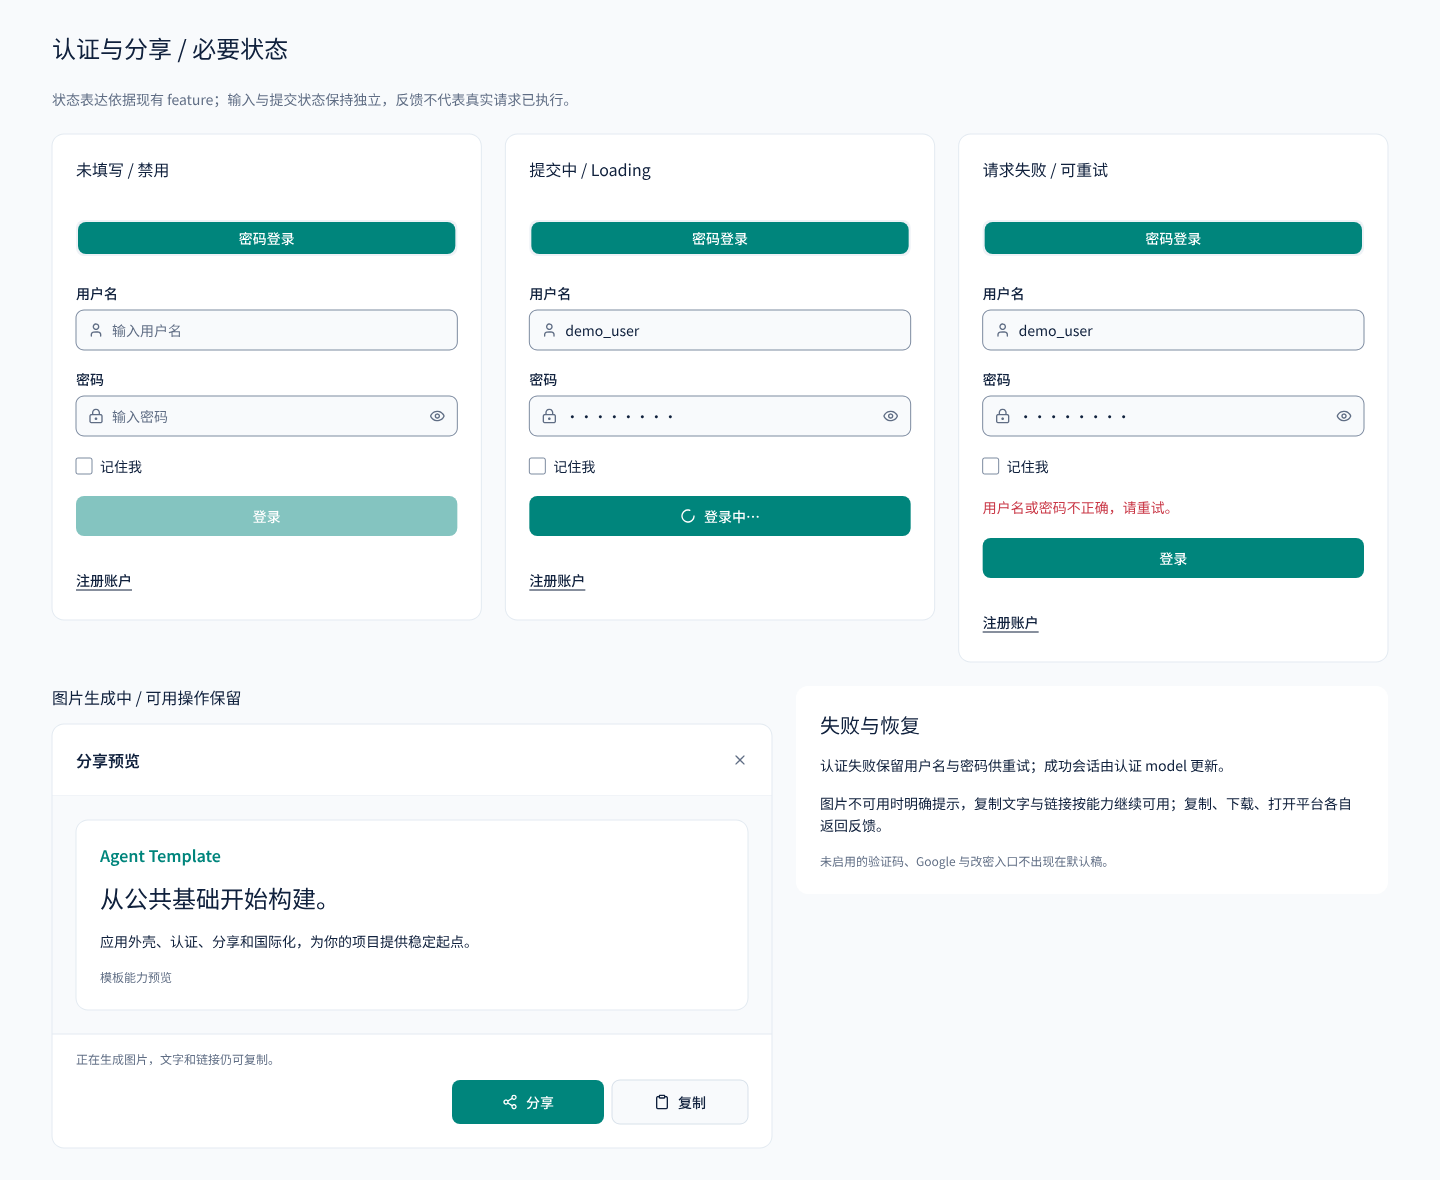
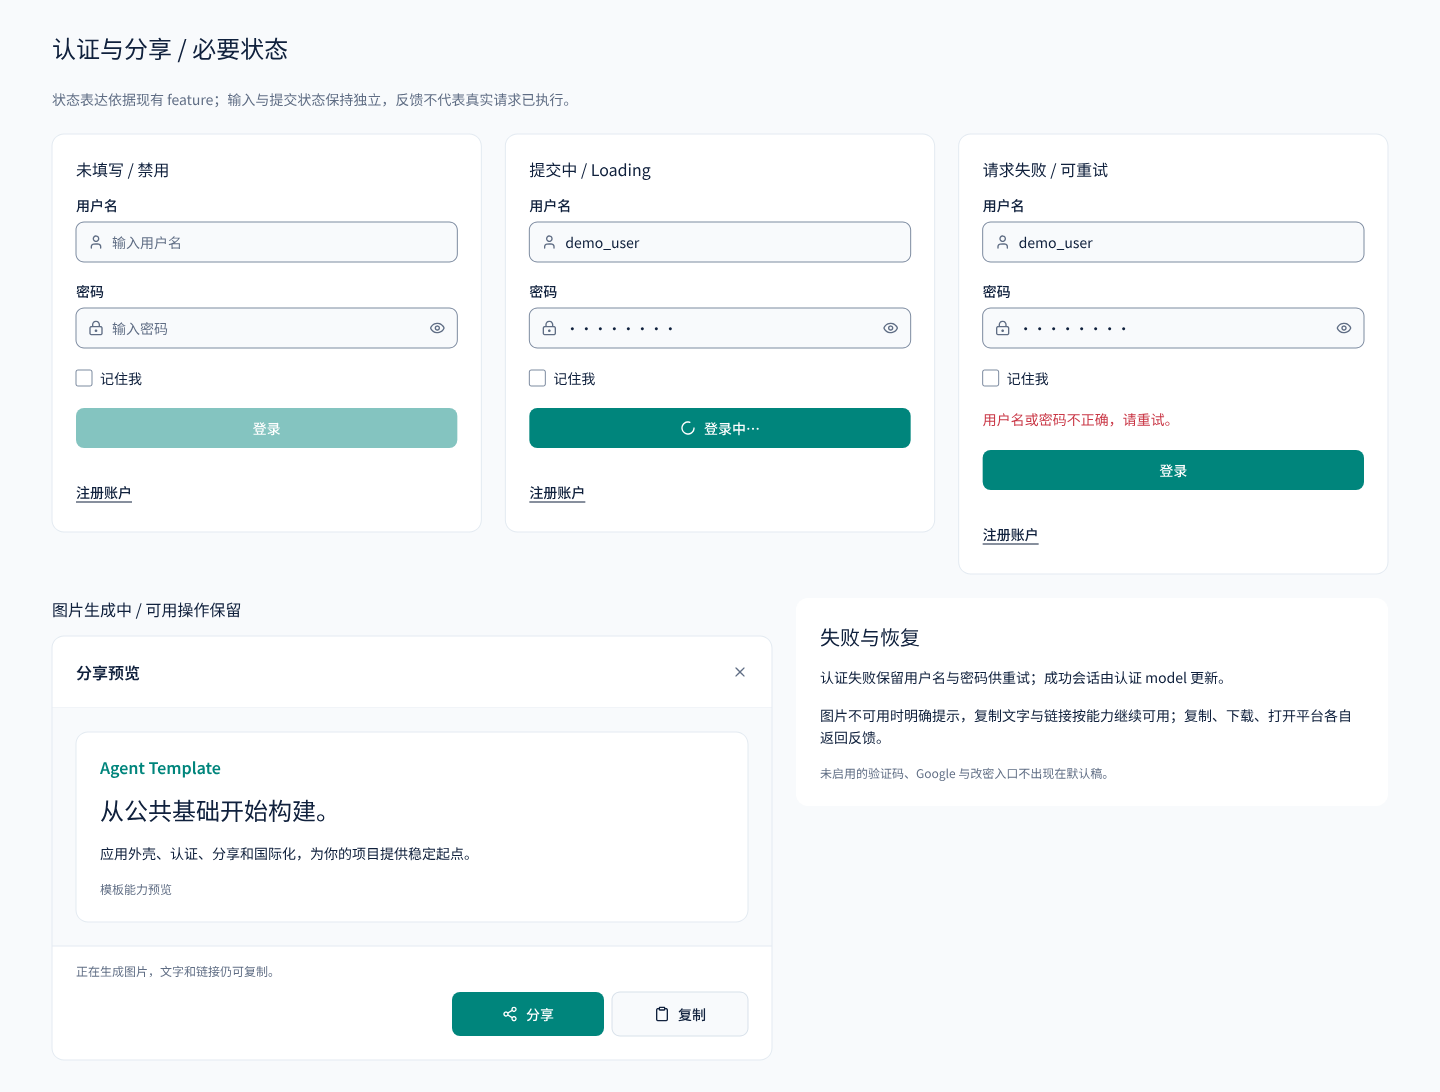
fix(auth): hide single-method login tabs and show dialog title

diff --git a/frontend/src/features/auth/ui/AuthForm/AuthForm.tsx b/frontend/src/features/auth/ui/AuthForm/AuthForm.tsx
@@ -423,23 +423,20 @@ export function AuthForm({ onAuthenticated, className }: AuthFormProps) {
 
   /** 登录方式之间是平级关系，用 tab 表达；注册与找回是派生流程，不进 tab。 */
   const tabs = (
-    // 弹窗顶部为关闭按钮保留独立的 Header 空间，切换按钮保持完整宽度。
-    <div className="pt-[var(--space-6)]">
-      <Tabs
-        value={mode === 'code' || mode === 'password' ? mode : 'code'}
-        onValueChange={(value) => {
-          if (value === 'code' || value === 'password') switchMode(value);
-        }}
-      >
-        <TabsList className="w-full" aria-label={t('auth.login')}>
-          {LOGIN_MODES.map((value) => (
-            <TabsTrigger key={value} value={value} className="min-w-0 flex-1">
-              {t(`auth.tabs.${value}`)}
-            </TabsTrigger>
-          ))}
-        </TabsList>
-      </Tabs>
-    </div>
+    <Tabs
+      value={mode === 'code' || mode === 'password' ? mode : 'code'}
+      onValueChange={(value) => {
+        if (value === 'code' || value === 'password') switchMode(value);
+      }}
+    >
+      <TabsList className="w-full" aria-label={t('auth.login')}>
+        {LOGIN_MODES.map((value) => (
+          <TabsTrigger key={value} value={value} className="min-w-0 flex-1">
+            {t(`auth.tabs.${value}`)}
+          </TabsTrigger>
+        ))}
+      </TabsList>
+    </Tabs>
   );
 
   // Google 是「另一种进来的方式」，对找回密码这种修复流程没有意义，那一态不出现。
@@ -686,7 +683,7 @@ export function AuthForm({ onAuthenticated, className }: AuthFormProps) {
 
   return (
     <div className={cn('flex flex-col gap-[var(--content-gap)]', className)}>
-      {mode === 'code' || mode === 'password' ? tabs : null}
+      {LOGIN_MODES.length > 1 && (mode === 'code' || mode === 'password') ? tabs : null}
       {renderForm()}
       {googleBlock}
       {links}

diff --git a/frontend/src/features/auth/ui/AuthForm/AuthForm.demo.test.tsx b/frontend/src/features/auth/ui/AuthForm/AuthForm.demo.test.tsx
@@ -1,0 +1,33 @@
+import { QueryClient, QueryClientProvider } from '@tanstack/react-query';
+import { render, screen } from '@testing-library/react';
+import userEvent from '@testing-library/user-event';
+import { I18nextProvider } from 'react-i18next';
+import { expect, it, vi } from 'vitest';
+import { i18n } from '@/shared/i18n';
+import { AuthForm } from './AuthForm';
+
+vi.mock('../../model/auth.capabilities', () => ({
+  authCapabilities: { emailCode: true, passwordReset: false, google: false, changePassword: false },
+}));
+
+it('keeps both login methods selectable when email-code login is enabled', async () => {
+  await i18n.changeLanguage('en');
+  render(
+    <I18nextProvider i18n={i18n}>
+      <QueryClientProvider client={new QueryClient()}>
+        <AuthForm onAuthenticated={() => {}} />
+      </QueryClientProvider>
+    </I18nextProvider>,
+  );
+
+  expect(screen.getByRole('tab', { name: 'Email code' })).toHaveAttribute('aria-selected', 'true');
+  expect(screen.getByLabelText('Email')).toBeInTheDocument();
+  await userEvent.click(screen.getByRole('tab', { name: 'Username & password' }));
+  expect(screen.getByRole('tab', { name: 'Username & password' })).toHaveAttribute(
+    'aria-selected',
+    'true',
+  );
+  expect(screen.getByLabelText('Username')).toBeInTheDocument();
+  await userEvent.click(screen.getByRole('tab', { name: 'Email code' }));
+  expect(screen.getByLabelText('Email')).toBeInTheDocument();
+});

diff --git a/frontend/src/features/auth/ui/LoginModal/LoginModal.test.tsx b/frontend/src/features/auth/ui/LoginModal/LoginModal.test.tsx
@@ -1,0 +1,27 @@
+import { QueryClient, QueryClientProvider } from '@tanstack/react-query';
+import { render, screen } from '@testing-library/react';
+import { I18nextProvider } from 'react-i18next';
+import { afterEach, expect, it } from 'vitest';
+import { i18n } from '@/shared/i18n';
+import { useLoginModal } from '../../model/login-modal.store';
+import { LoginModal } from './LoginModal';
+
+afterEach(() => useLoginModal.getState().closeLogin());
+
+it('shows a visible login title without a redundant single-method selector', async () => {
+  await i18n.changeLanguage('en');
+  useLoginModal.getState().openLogin();
+  render(
+    <I18nextProvider i18n={i18n}>
+      <QueryClientProvider client={new QueryClient()}>
+        <LoginModal />
+      </QueryClientProvider>
+    </I18nextProvider>,
+  );
+
+  expect(screen.getByRole('dialog', { name: 'Log in' })).toBeInTheDocument();
+  const title = screen.getByRole('heading', { name: 'Log in' });
+  expect(title.parentElement).not.toHaveClass('sr-only');
+  expect(screen.queryByRole('tablist')).not.toBeInTheDocument();
+  expect(screen.getByLabelText('Username')).toBeInTheDocument();
+});

diff --git a/frontend/src/features/auth/ui/AuthForm/AuthForm.test.tsx b/frontend/src/features/auth/ui/AuthForm/AuthForm.test.tsx
@@ -34,6 +34,8 @@ describe('standard form with fullstack capabilities', () => {
     expect(screen.queryByLabelText('Email')).not.toBeInTheDocument();
     expect(screen.queryByText('Forgot password?')).not.toBeInTheDocument();
     expect(screen.queryByText(/Google/)).not.toBeInTheDocument();
+    expect(screen.queryByRole('tablist')).not.toBeInTheDocument();
+    expect(screen.queryByRole('tab')).not.toBeInTheDocument();
   });
   it('submits actual username/password and keeps input when backend fails', async () => {
     passwordLogin.mockRejectedValue(new Error('unavailable'));

diff --git a/frontend/src/features/auth/ui/LoginModal/LoginModal.tsx b/frontend/src/features/auth/ui/LoginModal/LoginModal.tsx
@@ -26,9 +26,8 @@ export function LoginModal() {
         closeLabel={t('auth.close')}
         className="max-h-[calc(100dvh-var(--space-8))] overflow-y-auto"
       >
-        {/* 可见内容直接从登录方式开始；标题保留给可访问性语义。 */}
-        <DialogHeader className="sr-only">
-          <DialogTitle>{t('auth.title')}</DialogTitle>
+        <DialogHeader className="pr-[var(--space-6)]">
+          <DialogTitle>{t('auth.login')}</DialogTitle>
         </DialogHeader>
 
         {/* 登录成功就地关闭，停留在用户原本的页面上。 */}
